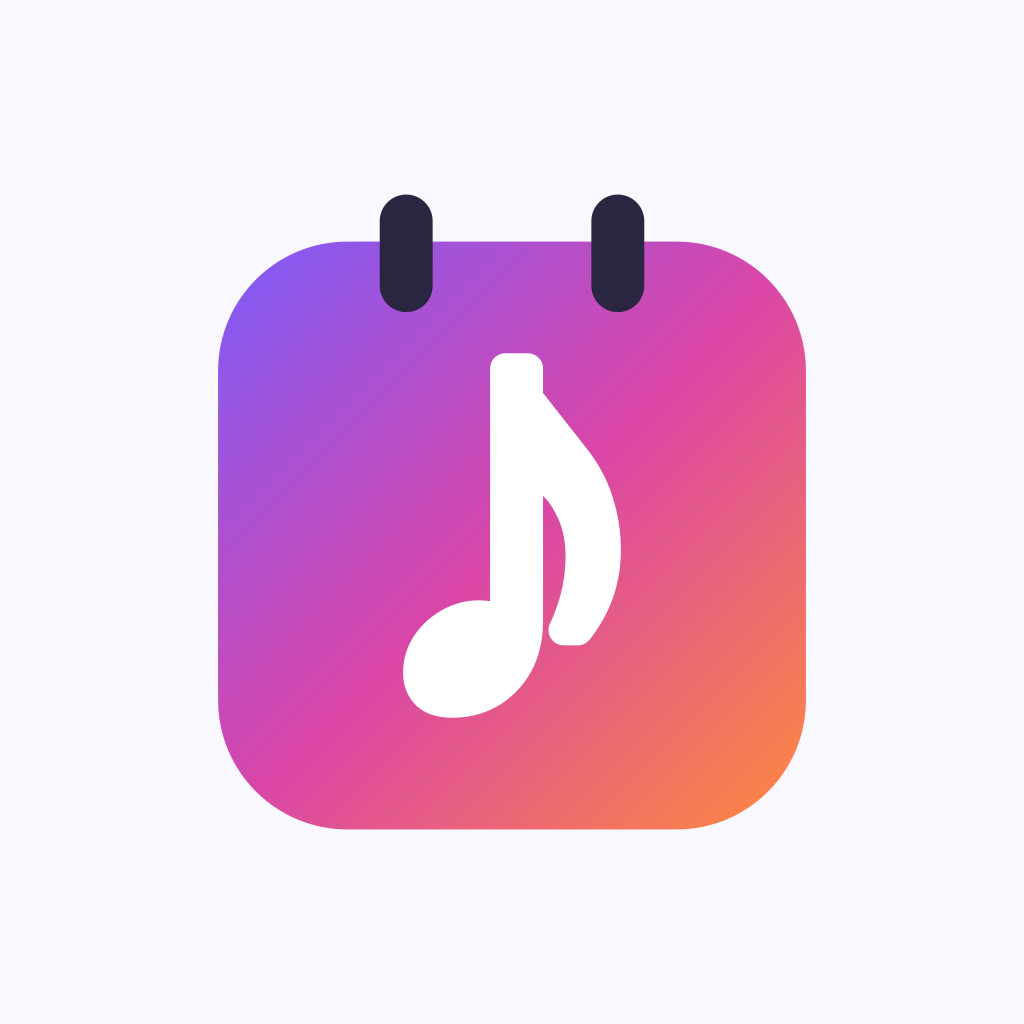
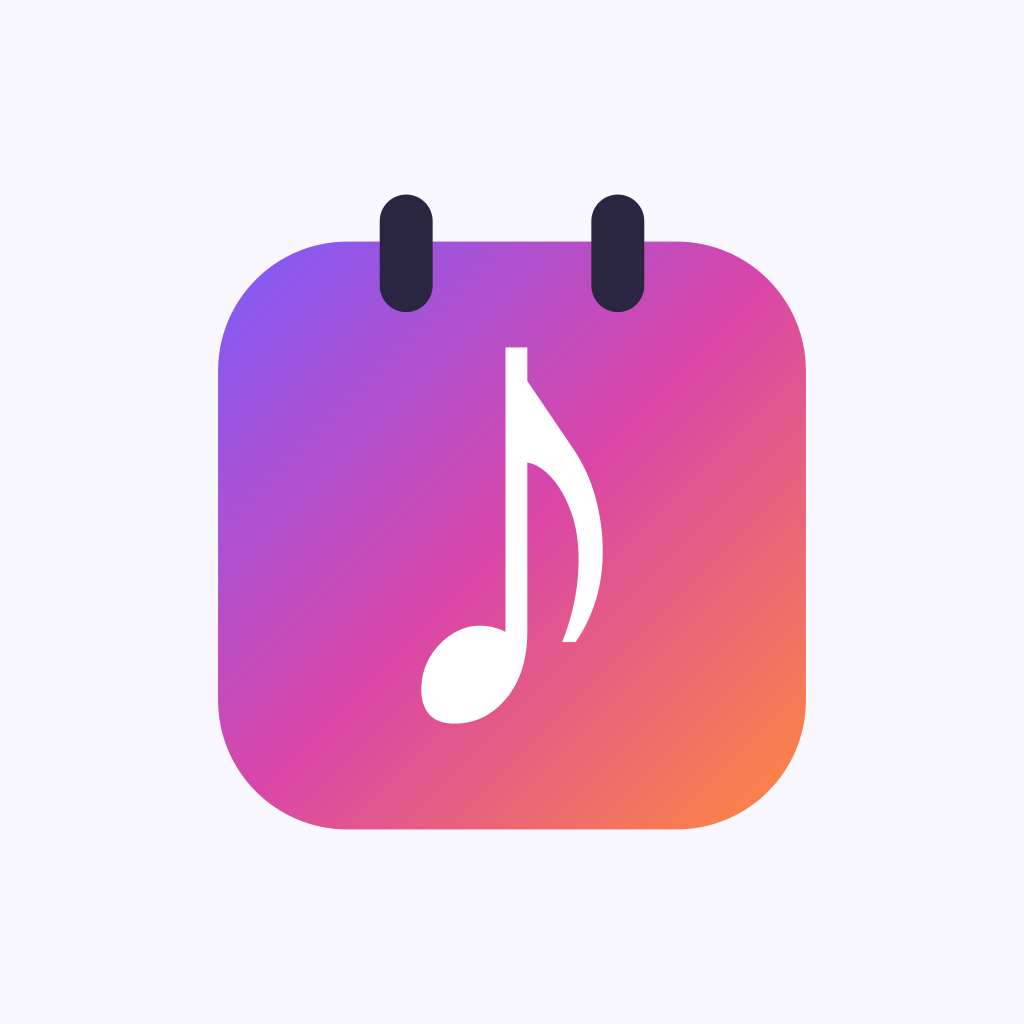
Corchea más fina: el glifo sin engrosar y algo estrechado

Changed region(s): [[0.375, 0.3438, 0.625, 0.7188]]

diff --git a/scripts/generate-brand-assets.swift b/scripts/generate-brand-assets.swift
@@ -37,9 +37,11 @@ Q 71.8 61.2 71.8 53.0 Q 71.8 38.2 62.6 26.6 L 58.0 26.6 Q 63.6 38.6 63.6 50.8 Q 
 Q 58.4 70.8 54.4 74.6 Q 50.4 78.4 46.2 79.0 L 46.2 29.6 Q 46.2 17.6 39.1 10.2 Q 32.0 2.8 21.4 2.8
 Q 15.8 2.8 13.0 5.4 Z
 """
-/// Alto de la corchea / lado de la hoja, y cuánto se engrosa (unidades del glifo) para que se lea en pequeño
-let NOTE_SHARE: CGFloat = 0.62
-let NOTE_BOLD: CGFloat = 5
+/// Alto de la corchea / lado de la hoja, y cuánto se engrosa (unidades del glifo); fina, como el glifo
+let NOTE_SHARE: CGFloat = 0.64
+let NOTE_BOLD: CGFloat = 0
+/// Algo estrechada, para una corchea más estilizada
+let NOTE_NARROW: CGFloat = 0.86
 
 /// Lee el trazado M/L/Q/Z del glifo.
 func glyphPath() -> CGPath {
@@ -96,13 +98,13 @@ func drawMark(_ ctx: CGContext, origin: CGPoint, side u: CGFloat, colors: MarkCo
   fillGradient(ctx, colors.sheet, in: sheet)
   ctx.restoreGState()
 
-  // Corchea: el glifo, centrado en la hoja (por su caja) y algo engrosado
+  // Corchea: el glifo, centrado en la hoja (por su caja)
   let glyph = glyphPath()
   let box = glyph.boundingBox.insetBy(dx: -NOTE_BOLD, dy: -NOTE_BOLD)
   let k = NOTE_SHARE * u / box.height
   ctx.saveGState()
   ctx.translateBy(x: u / 2, y: top + u / 2)
-  ctx.scaleBy(x: k, y: -k)
+  ctx.scaleBy(x: k * NOTE_NARROW, y: -k)
   ctx.translateBy(x: -box.midX, y: -box.midY)
   ctx.addPath(glyph)
   ctx.setFillColor(colors.note.cgColor)

diff --git a/CLAUDE.md b/CLAUDE.md
@@ -215,7 +215,7 @@ scripts/jest-timezone.js              # globalSetup de jest: los tests corren si
 
 **Nombre:** DayStage. En el logotipo, siempre en minúsculas y con punto violeta: `daystage.` (`DayStageLogo` en `daystage-mark.tsx`), en tinta y peso 800. En prosa, «DayStage».
 
-**Imagotipo:** una hoja de calendario con el degradado de escenario (`BRAND_GRADIENT`: `stageViolet` → `stageMagenta` → `stageOrange`, a 135°), dos anillas en tinta y, dentro, una corchea blanca: el glifo ♪ de Noto Music (OFL), algo engrosado. Lo dibuja solo `generate-brand-assets.swift`; la app usa su PNG (`assets/images/brand-mark.png`, en `DayStageMark`). El punto de «daystage.» lleva el mismo degradado. Las variantes de color se generan con `swift scripts/generate-brand-assets.swift <carpeta> variantes`. `Imagotipo` / `ImagotipoAnimado` (`imagotipo.tsx`) lo pintan en todas partes (el animado late despacio; quieto con «Reducir movimiento»). La geometría está también en `scripts/generate-brand-assets.swift` (icono sobre `mist`, splash con «daystage.»): si cambia, cámbiala en los dos.
+**Imagotipo:** una hoja de calendario con el degradado de escenario (`BRAND_GRADIENT`: `stageViolet` → `stageMagenta` → `stageOrange`, a 135°), dos anillas en tinta y, dentro, una corchea blanca: el glifo ♪ de Noto Music (OFL), algo estrechado. Lo dibuja solo `generate-brand-assets.swift`; la app usa su PNG (`assets/images/brand-mark.png`, en `DayStageMark`). El punto de «daystage.» lleva el mismo degradado. Las variantes de color se generan con `swift scripts/generate-brand-assets.swift <carpeta> variantes`. `Imagotipo` / `ImagotipoAnimado` (`imagotipo.tsx`) lo pintan en todas partes (el animado late despacio; quieto con «Reducir movimiento»). La geometría está también en `scripts/generate-brand-assets.swift` (icono sobre `mist`, splash con «daystage.»): si cambia, cámbiala en los dos.
 
 **Botón de ir a un concierto:** «¡Voy!» (activo: «Voy ✓»); la pestaña de tus planes y sus chats se llama «Planes» (internamente sigue siendo `meeet-in.tsx`, `isGoing`/`toggleGoing`).
 
